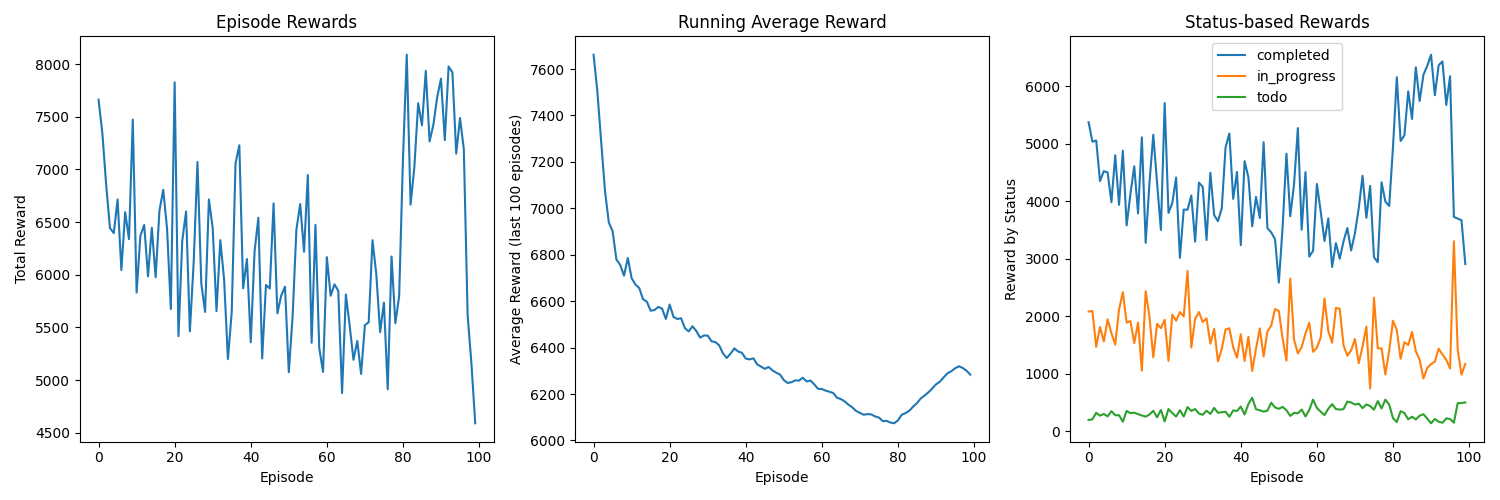
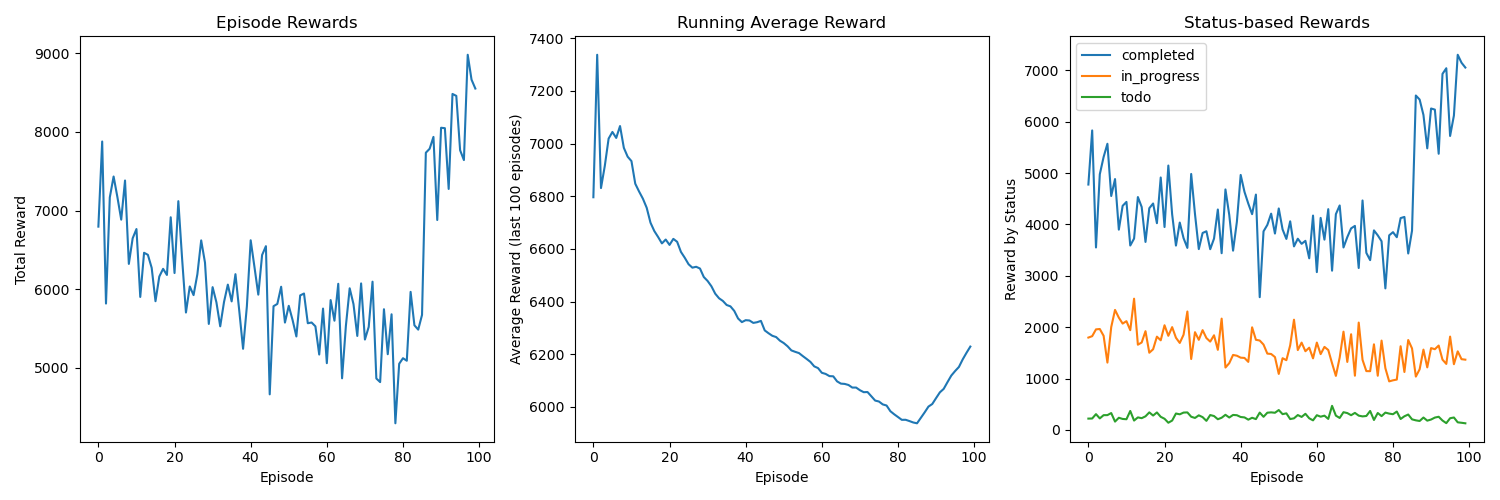
minor fixes

diff --git a/src/environment.py b/src/environment.py
@@ -1,35 +1,112 @@
 import numpy as np
 import pandas as pd
 import torch
-from gym import Env, spaces
+import gymnasium as gym
+from gymnasium import Env, spaces
 from datetime import datetime
 
-from reward_function import calculate_reward
+from .reward_function import calculate_reward
 
 class TodoListEnv(Env):
     def __init__(self, tasks, user_behavior, device=None):
         super(TodoListEnv, self).__init__()
-        self.tasks = tasks
+        self.original_tasks = tasks.copy()
         self.user_behavior = user_behavior
-        self.current_task_index = 0
-        self.device = device if device is not None else torch.device("mps" if torch.backends.mps.is_available() else "cpu")
-        self.tasks['deadline'] = pd.to_datetime(self.tasks['deadline'])
-        self.tasks['days_remaining'] = (self.tasks['deadline'] - datetime.now()).dt.days
-        self.action_space = spaces.Discrete(len(self.tasks))
-        self.observation_space = spaces.Box(low=0, high=1, shape=(len(self.tasks) * 3,), dtype=np.float32)
+        self.device = device if device is not None else torch.device("cuda" if torch.cuda.is_available() else "cpu")
+        
+        # Process initial tasks
+        self.original_tasks['deadline'] = pd.to_datetime(self.original_tasks['deadline'])
+        self.original_tasks['start_date'] = pd.to_datetime(self.original_tasks['start_date'])
+        
+        # Dynamic state tracking
+        self.available_tasks = None
+        self.completed_tasks = []
+        self.episode_step = 0
+        
+        # Fixed action and observation spaces based on maximum possible tasks
+        self.max_tasks = len(self.original_tasks)
+        self.action_space = spaces.Discrete(self.max_tasks)
+        # State: [task_features..., action_mask]
+        self.observation_space = spaces.Box(
+            low=-10, high=10, 
+            shape=(self.max_tasks * 4 + self.max_tasks,), 
+            dtype=np.float32
+        )
 
-    def reset(self):
-        self.current_task_index = 0
-        return self._get_state()
+    def reset(self, seed=None):
+        super().reset(seed=seed)
+        
+        # Reset available tasks (only incomplete tasks)
+        self.available_tasks = self.original_tasks.copy()
+        self.completed_tasks = []
+        self.episode_step = 0
+        
+        # Update days remaining based on current date
+        current_date = datetime.now()
+        self.available_tasks['days_remaining'] = (
+            self.available_tasks['deadline'] - current_date
+        ).dt.days
+        
+        return self._get_state(), {}
     
     def step(self, action):
-        selected_task = self.tasks.iloc[action]
-        reward = calculate_reward(selected_task, self.user_behavior, self.current_task_index)
-        self.current_task_index += 1
-        next_state = self._get_state()
-        done = self.current_task_index >= len(self.tasks)
-        return next_state, reward, done, {}
+        if action >= len(self.available_tasks):
+            # Invalid action - heavily penalize
+            return self._get_state(), -1.0, True, False, {"invalid_action": True}
+        
+        # Get selected task
+        selected_task = self.available_tasks.iloc[action].copy()
+        
+        # Calculate reward
+        reward = calculate_reward(
+            selected_task, 
+            self.user_behavior, 
+            self.episode_step,
+            self.available_tasks
+        )
+        
+        # Mark task as completed and remove from available tasks
+        self.completed_tasks.append(selected_task)
+        self.available_tasks = self.available_tasks.drop(self.available_tasks.index[action]).reset_index(drop=True)
+        
+        self.episode_step += 1
+        
+        # Episode ends when no tasks left or max steps reached
+        done = len(self.available_tasks) == 0 or self.episode_step >= self.max_tasks
+        truncated = self.episode_step >= self.max_tasks and len(self.available_tasks) > 0
+        
+        return self._get_state(), reward, done, truncated, {}
     
     def _get_state(self):
-        state = self.tasks[['days_remaining', 'priority', 'estimated_time']].values
-        return state.flatten()
+        # Create normalized state representation
+        state_features = []
+        action_mask = []
+        
+        current_date = datetime.now()
+        
+        for i in range(self.max_tasks):
+            if i < len(self.available_tasks):
+                task = self.available_tasks.iloc[i]
+                
+                # Normalize features
+                days_remaining = (task['deadline'] - current_date).days
+                normalized_days = np.clip(days_remaining / 30.0, -3, 3)  # Normalize to ~[-3,3]
+                normalized_priority = (task['priority'] - 2) / 1.0  # Assuming priority 1-3, normalize to [-1,1]
+                normalized_time = np.clip((task['estimated_time'] - 2.5) / 2.5, -1, 3)  # Normalize estimated time
+                
+                # Task urgency (inverse of days remaining, clamped)
+                urgency = np.clip(1.0 / max(abs(days_remaining), 0.1), 0, 10) if days_remaining > 0 else 10
+                urgency = np.clip((urgency - 2) / 2, -1, 3)
+                
+                state_features.extend([normalized_days, normalized_priority, normalized_time, urgency])
+                action_mask.append(1.0)  # Available action
+            else:
+                # Padding for unavailable task slots
+                state_features.extend([0.0, 0.0, 0.0, 0.0])
+                action_mask.append(0.0)  # Unavailable action
+        
+        return np.array(state_features + action_mask, dtype=np.float32)
+    
+    def get_valid_actions(self):
+        """Get list of valid action indices"""
+        return list(range(len(self.available_tasks)))

diff --git a/src/evaluate.py b/src/evaluate.py
@@ -15,7 +15,7 @@ def evaluate_model(
     print("Starting evaluation on test data...")
     
     try:
-        device = torch.device("mps" if torch.backends.mps.is_available() else "cpu")
+        device = torch.device("cuda" if torch.cuda.is_available() else "cpu")
         print(f"Using device: {device}")
         print("Loading test data...")
         test_tasks = pd.read_csv(os.path.join(test_data_dir, 'tasks.csv'))
